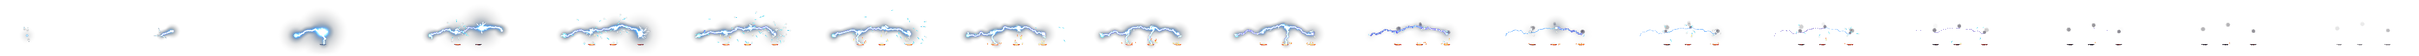
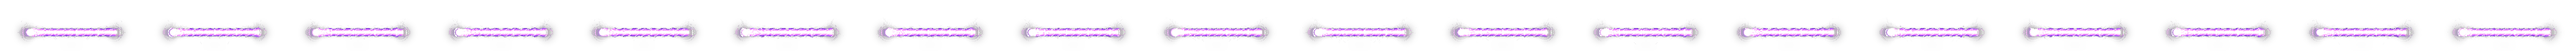
Keep original ranger and special power-flip strips

diff --git a/index.html b/index.html
@@ -3820,12 +3820,12 @@ const FX = {
 
 // PF 點陣特效表：職業決定用哪張橫條，顏色由素材本身烙死（不再跟屬性變色）。
 // beam＝光束厚度，該型改採「長度跟 beamLength、厚度跟等級」各自拉伸，不做等比縮放。
-// scale 全部校成「螢幕高度跟換裝前一致」，素材出自 pixelfx（MIT）。
+// scale 校成「螢幕高度跟原本一致」；貫光／爆裂經比較後維持原圖（arcane-beam／plasma-explosion）。
 const PF_FX = {
     knight: { src: "asset/fx/pixelfx/pf-knight.png", frames: 16, ms: 530, fw: 264, fh: 150, scale: .76 },
     fighter: { src: "asset/fx/pixelfx/pf-fighter.png", frames: 13, ms: 300, fw: 128, fh: 96, scale: 1.13 },
-    ranger: { src: "asset/fx/pixelfx/pf-ranger.png", frames: 18, ms: 500, fw: 248, fh: 104, beam: 150 },
-    special: { src: "asset/fx/pixelfx/pf-special.png", frames: 27, ms: 650, fw: 224, fh: 176, scale: .97 },
+    ranger: { src: "asset/fx/pixelfx/pf-ranger.png", frames: 18, ms: 500, fw: 264, fh: 100, beam: 150 },
+    special: { src: "asset/fx/pixelfx/pf-special.png", frames: 27, ms: 650, fw: 224, fh: 200, scale: .85 },
     supporter: { src: "asset/fx/pixelfx/pf-supporter.png", frames: 24, ms: 780, fw: 124, fh: 120, scale: 1.28 }
 };
 function showPowerFlipVFX(type, x, y, angle = 0, level = 1, visualScale = 1, beamLength = 170) {
